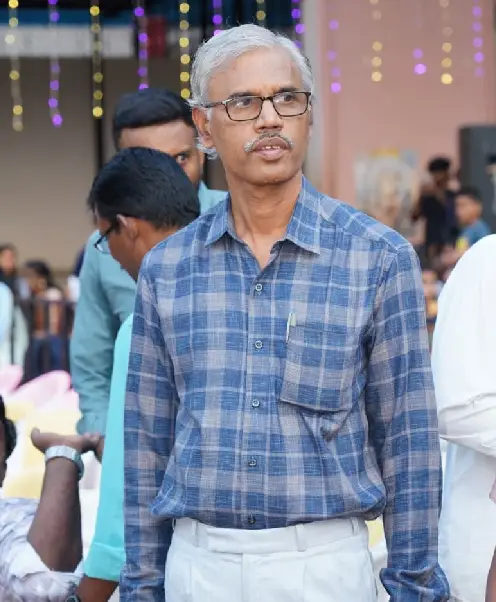
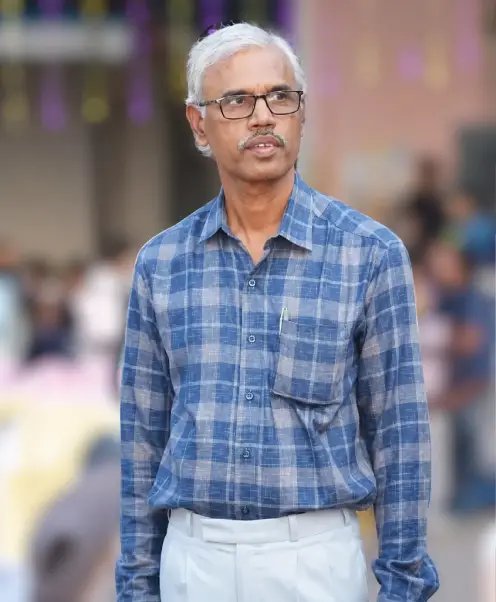
File Updated

diff --git a/Assets/CSS/style.css b/Assets/CSS/style.css
@@ -3829,7 +3829,7 @@ section.extra-1.py-5 {
     font-size: clamp(13px, 1vw, 15.5px);
     gap: clamp(8px, 1vw, 14px);
     margin-bottom: clamp(8px, 1vw, 14px);
-    align-items: flex-start;
+    /* align-items: flex-start; */
 }
 
 .admission-2 ul.icon-list li.list i {

diff --git a/admission.php b/admission.php
@@ -30,12 +30,8 @@
             <div class="row">
                 <div class="col-12 col-md-6 col-lg-6" data-aos="fade-right">
                     <div class="content-1">
-                        <h2 class="section-title">Admission Overview</h2>
-                        <p class="section-desc">Railway Higher Secondary School, Madurai, offers admissions based on eligibility requirements, seat availability, and institutional guidelines. The school follows a transparent and systematic admission process, ensuring fairness and accessibility for all applicants. Students are welcomed into a disciplined, value-based learning environment that promotes academic excellence, character development, and holistic growth, preparing them for future success and responsible citizenship.</p>
-                    </div>
-                    <div class="content-2 mt-4">
-                        <h2 class="section-title">Admission Procedure</h2>
-                        <p class="section-desc">The admission process at Railway Higher Secondary School is designed to be simple, transparent, and convenient for both students and parents. Prospective parents can obtain the application form from the school office and submit it along with the required documents within the specified admission schedule. The school administration provides necessary guidance throughout the enrollment process, ensuring a smooth and hassle-free experience while maintaining fairness and compliance with admission guidelines.</p>
+                        <h2 class="section-title">General</h2>
+                        <p class="section-desc">Railway Higher Secondary School (CBSE), Madurai, is a prestigious educational institution functioning under Southern Railway and affiliated with the Central Board of Secondary Education (CBSE). The school primarily serves the educational needs of the wards of Railway employees while maintaining high standards of academic excellence, discipline, and holistic development. Admissions are offered strictly based on the availability of vacancies and are governed by the guidelines and regulations issued by the Railway Board, Southern Railway, and CBSE from time to time, ensuring a transparent, fair, and systematic admission process.</p>
                     </div>
                 </div>
                 <div class="col-12 col-md-6 col-lg-6" data-aos="fade-left">
@@ -44,30 +40,80 @@
             </div>
         </div>
     </section>
+    <section class="pta-2 py-5">
+        <div class="container">
+            <span class="badge">Priority of Admission</span>
+            <h2 class="section-title">Admission Preference Categories</h2>
+            <div class="pta-table-wrap">
+            <table class="table mt-4">
+                <thead>
+                    <tr>
+                        <th>Category</th>
+                        <th>Eligibility / Admission Criteria</th>
+                    </tr>
+                </thead>
+                <tbody>
+                    <tr>
+                        <td>Railway Wards</td>
+                        <td>
+                            <ul>
+                                <li>Children of Serving Railway Employees</li>
+                                <li>Children of Retired Railway Employees</li>
+                                <li>Children of Deceased Railway Employees</li>
+                            </ul>
+                        </td>
+                    </tr>
+                    <tr>
+                        <td>Non-Railway Wards</td>
+                        <td>
+                            <ul>
+                                <li>Admissions for Non-Railway students shall be considered only against vacant seats remaining after accommodating eligible Railway wards.</li>
+                                <li>Preference to Railway wards is a common policy followed in Railway schools.</li>
+                            </ul>
+                        </td>
+                    </tr>
+                </tbody>
+            </table>
+            </div>
+        </div>
+    </section>
+
     <section class="admission-2 py-5">
         <div class="container">
-            <span class="badge" data-aos="fade-up">Admission Information</span>
-            <h2 class="section-title" data-aos="fade-up" data-aos-delay="100">Everything About School Admission</h2>
             <div class="row mt-4">
                 <div class="col-12 col-md-6 col-lg-6" data-aos="fade-right">
-                    <h5>Eligibility Criteria</h5>
+                    <h5>Admission of Railway Wards</h5>
+                    <p class="section-desc">The parent/guardian shall submit the prescribed application form along with:</p>
                     <ul class="icon-list mt-4">
-                        <li class="list"><i class="bi bi-person-check-fill"></i>Students must satisfy the age requirements prescribed for the respective class.</li>
-                        <li class="list"><i class="bi bi-person-check-fill"></i>Admission is subject to meeting the academic eligibility criteria of the school.</li>
-                        <li class="list"><i class="bi bi-person-check-fill"></i>Previous academic records may be required for admission consideration.</li>
-                        <li class="list"><i class="bi bi-person-check-fill"></i>Applicants must submit all necessary supporting documents during admission.</li>
-                        <li class="list"><i class="bi bi-person-check-fill"></i>Admissions are granted based on eligibility verification and seat availability.</li>
+                        <li class="list"><i class="bi bi-person-check-fill"></i>Service Certificate issued by the Railway Administration (for serving employees)</li>
+                        <li class="list"><i class="bi bi-person-check-fill"></i>PPO/Retirement document (for retired employees).</li>
+                        <li class="list"><i class="bi bi-person-check-fill"></i>Proof of relationship with the Railway employee</li>
+                        <li class="list"><i class="bi bi-person-check-fill"></i>Birth Certificate of the student.</li>
+                        <li class="list"><i class="bi bi-person-check-fill"></i>Aadhaar Card of the student.</li>
+                        <li class="list"><i class="bi bi-person-check-fill"></i>Passport-size photographs.</li>
+                        <li class="list"><i class="bi bi-person-check-fill"></i>Previous year's Report Card/Mark Sheet.</li>
+                        <li class="list"><i class="bi bi-person-check-fill"></i>Transfer Certificate (where applicable).</li>
                     </ul>
+                    <p class="section-desc">Admission will be granted subject to verification of documents and availability of
+seats.</p>
                 </div>
                 <div class="col-12 col-md-6 col-lg-6" data-aos="fade-left">
-                    <h5>Documents Required</h5>
+                    <h5>Admission of Non - Railway Wards</h5>
+                    <p class="section-desc">Non-Railway students may apply for admission in classes where vacancies exist
+after admission of Railway wards.</p>
+                    <p class="section-desc">The following documents shall be submitted:
+</p>
                     <ul class="icon-list mt-4">
-                        <li class="list"><i class="bi bi-file-earmark-text-fill"></i>Students must satisfy the age requirements prescribed for the respective class.</li>
-                        <li class="list"><i class="bi bi-file-earmark-text-fill"></i>Admission is subject to meeting the academic eligibility criteria of the school.</li>
-                        <li class="list"><i class="bi bi-file-earmark-text-fill"></i>Previous academic records may be required for admission consideration.</li>
-                        <li class="list"><i class="bi bi-file-earmark-text-fill"></i>Applicants must submit all necessary supporting documents during admission.</li>
-                        <li class="list"><i class="bi bi-file-earmark-text-fill"></i>Admissions are granted based on eligibility verification and seat availability.</li>
+                        <li class="list"><i class="bi bi-file-earmark-text-fill"></i>Birth Certificate</li>
+                        <li class="list"><i class="bi bi-file-earmark-text-fill"></i>Aadhaar Card of the student.</li>
+                        <li class="list"><i class="bi bi-file-earmark-text-fill"></i>Aadhaar Card of Parent/Guardian.</li>
+                        <li class="list"><i class="bi bi-file-earmark-text-fill"></i>Passport-size photographs.</li>
+                        <li class="list"><i class="bi bi-file-earmark-text-fill"></i>Address Proof.</li>
+                        <li class="list"><i class="bi bi-file-earmark-text-fill"></i>Previous year's Report Card/Mark Sheet.</li>
+                        <li class="list"><i class="bi bi-file-earmark-text-fill"></i>Transfer Certificate (where applicable).</li>
                     </ul>
+                    <p class="section-desc">Applications of Non-Railway students shall be considered strictly on merit, eligibility
+and availability of vacancies</p>
                 </div>
             </div>
         </div>
@@ -76,10 +122,10 @@
         <div class="container">
             <div class="row">
                 <div class="col-12 col-md-6 col-lg-6" data-aos="fade-right">
-                    <span class="badge">Fee Guidelines</span>
-                    <h1 class="section-title text-white">Understanding School Fee Policies</h1>
-                    <p class="section-desc text-white">The school follows a structured, transparent, and student-focused fee policy in accordance with institutional guidelines and educational standards. The fee structure is designed to support the smooth functioning of academic programmes, infrastructure maintenance, student welfare initiatives, and various educational activities. Parents are encouraged to familiarize themselves with the prescribed fee schedule and ensure timely payment of all applicable fees. The institution strives to maintain clarity and fairness in all fee-related procedures while providing a supportive environment for students and families.</p>
-                    <p class="section-desc text-white">Timely payment of fees plays an important role in ensuring uninterrupted academic activities, access to student services, and participation in school programmes throughout the academic year. Parents are requested to adhere to the scheduled payment timelines to avoid inconvenience and support the efficient administration of educational services. The school remains committed to providing quality education, modern learning resources, and a positive learning environment while maintaining transparency and accountability in its financial practices.</p>
+                    <h1 class="section-title text-white">Age Requirements</h1>
+                    <p class="section-desc text-white">Admission to various classes at Railway Higher Secondary School is governed by the age criteria prescribed by the Central Board of Secondary Education (CBSE) and the Government of Tamil Nadu from time to time. Parents seeking admission for their children must ensure that the student satisfies the required age eligibility for the respective class at the time of admission. The school strictly follows the prescribed guidelines to maintain transparency, fairness, and compliance with educational regulations, ensuring a systematic and standardized admission process for all applicants.</p>
+                    <h1 class="section-title text-white">Transfer Cases</h1>
+                    <p class="section-desc text-white">Students seeking admission from other CBSE or State Board schools are required to submit the necessary documents to complete the admission process. These include the original Transfer Certificate, previous Report Card or Mark Sheet, Migration Certificate wherever applicable, and Aadhaar Card along with supporting documents. The submission of these records helps the school verify academic eligibility, ensure compliance with admission regulations, and facilitate a smooth transition for students joining the institution from other recognized schools.</p>
                 </div>
                 <div class="col-12 col-md-6 col-lg-6" data-aos="fade-left">
                     <img src="Assets/Images/fees.webp" alt="" class="img-fluid">
@@ -87,19 +133,27 @@
             </div>
         </div>
     </section>
-    <section class="admission-4 py-5">
+     <section class="about-3">
         <div class="container">
-            <div class="row">
-                <div class="col-12 col-md-6 col-lg-6" data-aos="fade-right">
-                    <img src="Assets/Images/parent.webp" alt="" class="img-fluid">
+            <div class="heading-center">
+                <span class="badge">Admission Policies</span>
+            <h2 class="section-title text-center">Admission Approval and Rights</h2>
+            </div>
+            <div class="row mt-4">
+                <div class="col-12 col-md-6 col-lg-6">
+                    <div class="icon-box">
+                        <h4 class="icon-box-title">School's Right</h4>
+                        <p class="icon-box-desc">The school reserves the right to approve or reject admission applications without assigning any reason. The decision of the school administration shall be final and binding in all admission matters.</p>
+                    </div>
                 </div>
-                <div class="col-12 col-md-6 col-lg-6" data-aos="fade-left">
-                    <span class="badge">Parent Interaction Process</span>
-                    <h2 class="section-title">Strengthening Parent Partnerships</h2>
-                    <p class="section-desc">The institution strongly believes that the active involvement of parents plays a vital role in the academic, emotional, and personal development of students. Railway Higher Secondary School encourages a collaborative relationship between parents and educators to create a supportive learning environment that nurtures student success. Regular parent-teacher interactions provide valuable opportunities to discuss academic performance, classroom participation, behavior, attendance, and overall progress. These meetings help establish open communication and enable both parents and teachers to work together in identifying strengths and addressing areas that require additional support.</p>
-                    <p class="section-desc">The school also organizes communication sessions, counseling interactions, and academic review meetings to keep parents informed about important developments in their child's educational journey. Through continuous engagement and mutual cooperation, the institution ensures that students receive consistent guidance both at school and at home. This strong partnership promotes discipline, confidence, responsibility, and overall well-being while helping students achieve their full potential in academics and personal growth.</p>
+                <div class="col-12 col-md-6 col-lg-6">
+                    <div class="icon-box">
+                        <h4 class="icon-box-title">Final Approval</h4>
+                        <p class="icon-box-desc">Submission of an application does not guarantee admission. Admission becomes final only after document verification, approval by the competent authority, and payment of the prescribed fees as per school guidelines.</p>
+                    </div>
                 </div>
             </div>
+            
         </div>
     </section>
    

diff --git a/index.php b/index.php
@@ -135,6 +135,23 @@
     </div>
    </section>
 
+   <section class="curriculam-1 py-5">
+        <div class="container">
+            <div class="row">
+                <div class="col-12 col-md-6 col-lg-6">
+                    <span class="badge">National Leadership</span>
+                    <h2 class="section-title">Guiding Indian Railways Forward</h2>
+                    <p class="section-desc">Railway Higher Secondary School, Madurai, takes pride in being associated with the rich legacy and national service of Indian Railways. The Ministry of Railways plays a vital role in strengthening the country's transportation network while contributing significantly to education, social development, and employee welfare. Under the leadership and vision of the Railway Minister, Indian Railways continues to promote modernization, innovation, safety, and inclusive growth across the nation.</p>
+                    <p class="section-desc">The Railway Minister provides strategic direction for the development of railway infrastructure, passenger services, technological advancement, and welfare initiatives. Along with improving transportation services, the Ministry also supports educational institutions established for the benefit of railway employees and their families. Railway schools across the country have become centers of quality education, discipline, and value-based learning.</p>
+                </div>
+                <div class="col-12 col-md-6 col-lg-6">
+                    <img src="Assets/Images/minister.webp" alt="" class="img-fluid">
+                </div>
+            </div>
+        </div>
+        
+    </section>
+
    <section class="home-4 py-5">
     <div class="container">
         <div class="heading-center">
